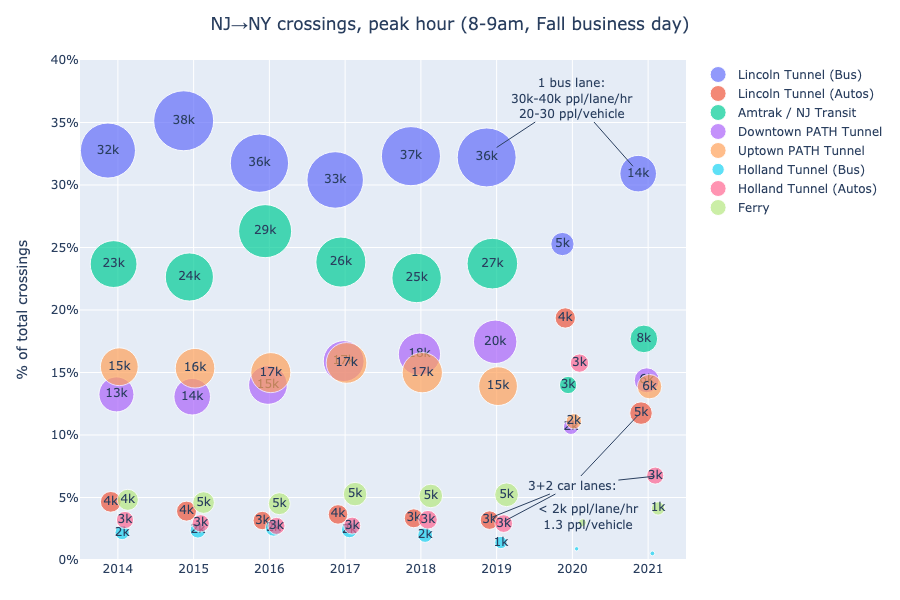
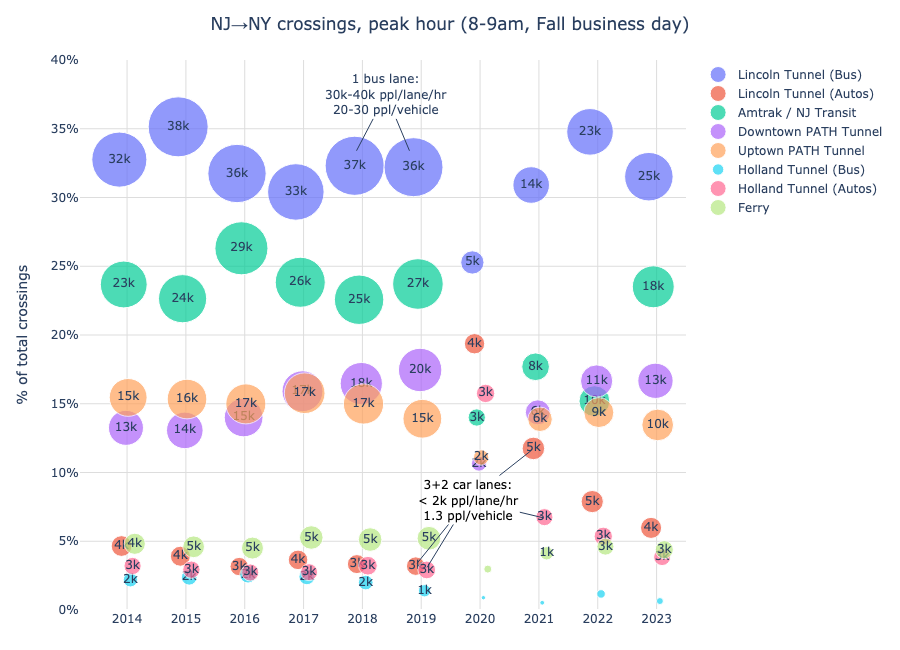
xbl2

diff --git a/slides.md b/slides.md
@@ -154,11 +154,11 @@ class: us
 ---
 class: plots
 dragPos:
-  jc: 724,18,241,_
-  cb: 345,27,367,_
-  path: 45,303,360,_
-  xbl: 45,78,368,_
-  hom: 420,303,372,_
+  jc: 724,33,241,_
+  cb: 351,35,367,_
+  path: 44,330,320,_
+  xbl: 44,61,386,_
+  hom: 370,306,369,_
 ---
 
 <style>
@@ -171,19 +171,19 @@ dragPos:
 }
 </style>
 
-<!--
 <div v-drag="'jc'"><img src="/jc.gif" class="jc" /></div>
 <div v-drag="'cb'"><img src="/g2410.png" class="cb"/></div>
 <div v-drag="'xbl'"><img src="/xbl2.png" class="xbl"/></div>
 <div v-drag="'hom'"><img class="hom" src="/hom.png"/></div>
 <div v-drag="'path'"><img src="/path-vs19.png" class="path"/></div>
--->
 
+<!--
 <div v-drag="'jc'"><a target="_blank" href="https://map.bikejc.org/?ll=40.720_-74.068&z=14"><img src="/jc.gif" class="jc" /></a></div>
 <div v-drag="'cb'"><a target="_blank" href="https://ctbk.dev/stations?ll=40.717-74.045&z=15&ss=JC115&ym=2410"><img src="/g2410.png" class="cb"/></a></div>
 <div v-drag="'xbl'"><a target="_blank" href="https://github.com/hudcostreets/hudson-transit"><img src="/xbl2.png" class="xbl"/></a></div>
 <div v-drag="'hom'"><a target="_blank" href="https://crashes.hudcostreets.org/#vs-homicides"><img class="hom" src="/hom.png"/></a></div>
 <div v-drag="'path'"><a target="_blank" href="https://path.hudcostreets.org/#vs-2019"><img src="/path-vs19.png" class="path"/></a></div>
+-->
 
 # Proving it, locally
 
@@ -196,15 +196,15 @@ dragPos:
 # layout: two-cols
 class: nymtc
 dragPos:
-  xbl: 36,160,540,_
-  nymtc: 596,157,279,_
+  xbl: 40,145,548,_
+  nymtc: 591,144,286,_
 ---
 
 <style>
 .slidev-layout.nymtc {
   display: grid;
   padding: 2rem 2.5rem 2rem 2.5rem;
-  grid-template-columns: 60% 31%;
+  grid-template-columns: 59.5% 31%;
   gap: 1rem;
   .col-right { padding-top: 1rem }
 }
@@ -227,9 +227,9 @@ dragPos:
 [xbl]: https://www.panynj.gov/bridges-tunnels/en/lincoln-tunnel/xbl.html
 [xbl faq]: https://www.panynj.gov/port-authority/en/help-center/faq/bridges-and-tunnels-faq.html
 
-<a href="https://github.com/hudcostreets/hudson-transit" target="_blank"><img v-drag="'xbl'" src="/xbl.png"/></a>
+<a href="https://github.com/hudcostreets/hudson-transit#peak" target="_blank"><img v-drag="'xbl'" src="/xbl2.png"/></a>
 <!--
-<img v-drag="'xbl'" src="/xbl.png"/>
+<img v-drag="'xbl'" src="/xbl2.png"/>
 -->
 
 <a href="https://www.nymtc.org/Portals/0/Pdf/Hub%20Bound/2023%20Hub%20Bound/2023%20Hub%20Bound%20Report-%203.18.25.pdf?ver=7S_sDok5O_aw9bEN3A-NjA%3d%3d" target="_blank"><img v-drag="'nymtc'" src="/nymtc-hbt.png"/></a>
@@ -264,11 +264,11 @@ class: ctbk
 # [ctbk.dev]
 Citi Bike dashboard
 
-- Est. Oct '20, Updates ≈automatically each month
-- Cleaned data at [`s3://ctbk`], code [on &nbsp;<logos-github-icon color="white" />][ctbk gh]
+- Lyft [publishes][cb data] data monthly: [`s3://tripdata`]
+- Cleaned/Mirrored: [`s3://ctbk`], [&nbsp;<logos-github-icon color="white" />][ctbk gh]
 - 3.8MM rides/mo (86k/mo in JC+HOB)
 - [67%][ebikes] ebike share, [82%][subs] annual subscribers
-- Grove St (≈2 car-parking spots): 90-180 ride ends / day ([Feb '25][2502], [Oct '24][2410])
+- Grove St (≈2 car-parking spots): 90-180 ride ends per day ([Feb '25][2502], [Oct '24][2410])
 
 [![](/g2410.png)][2410]
 
@@ -280,6 +280,8 @@ Show JC+HOB plateau, ebike share over time, Grove St 80/day in Feb '25
 
 [ctbk.dev]: https://ctbk.dev
 [`s3://ctbk`]: https://ctbk.s3.amazonaws.com/index.html
+[`s3://tripdata`]: https://tripdata.s3.amazonaws.com/index.html
+[cb data]: https://www.citibikenyc.com/system-data
 [ctbk gh]: https://github.com/neighbor-ryan/ctbk.dev
 [2410]: https://ctbk.dev/stations?ll=40.717-74.045&z=15&ss=JC115&ym=2410
 [2502]: https://ctbk.dev/stations?ll=40.717-74.045&z=15&ss=JC115&ym=2502
